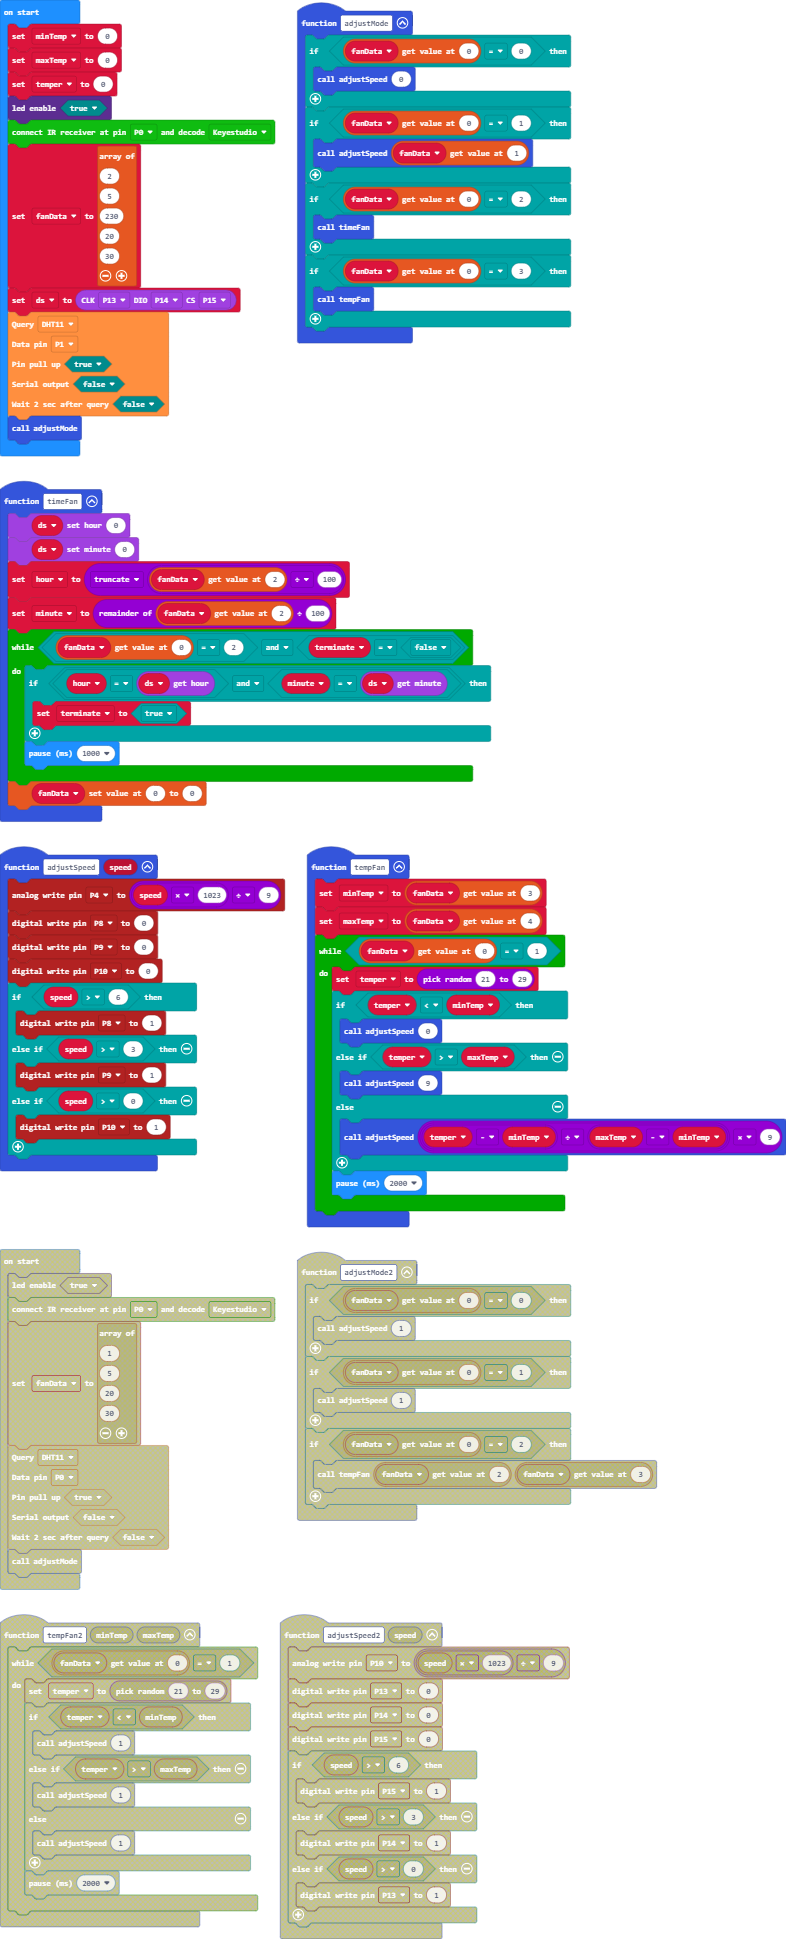
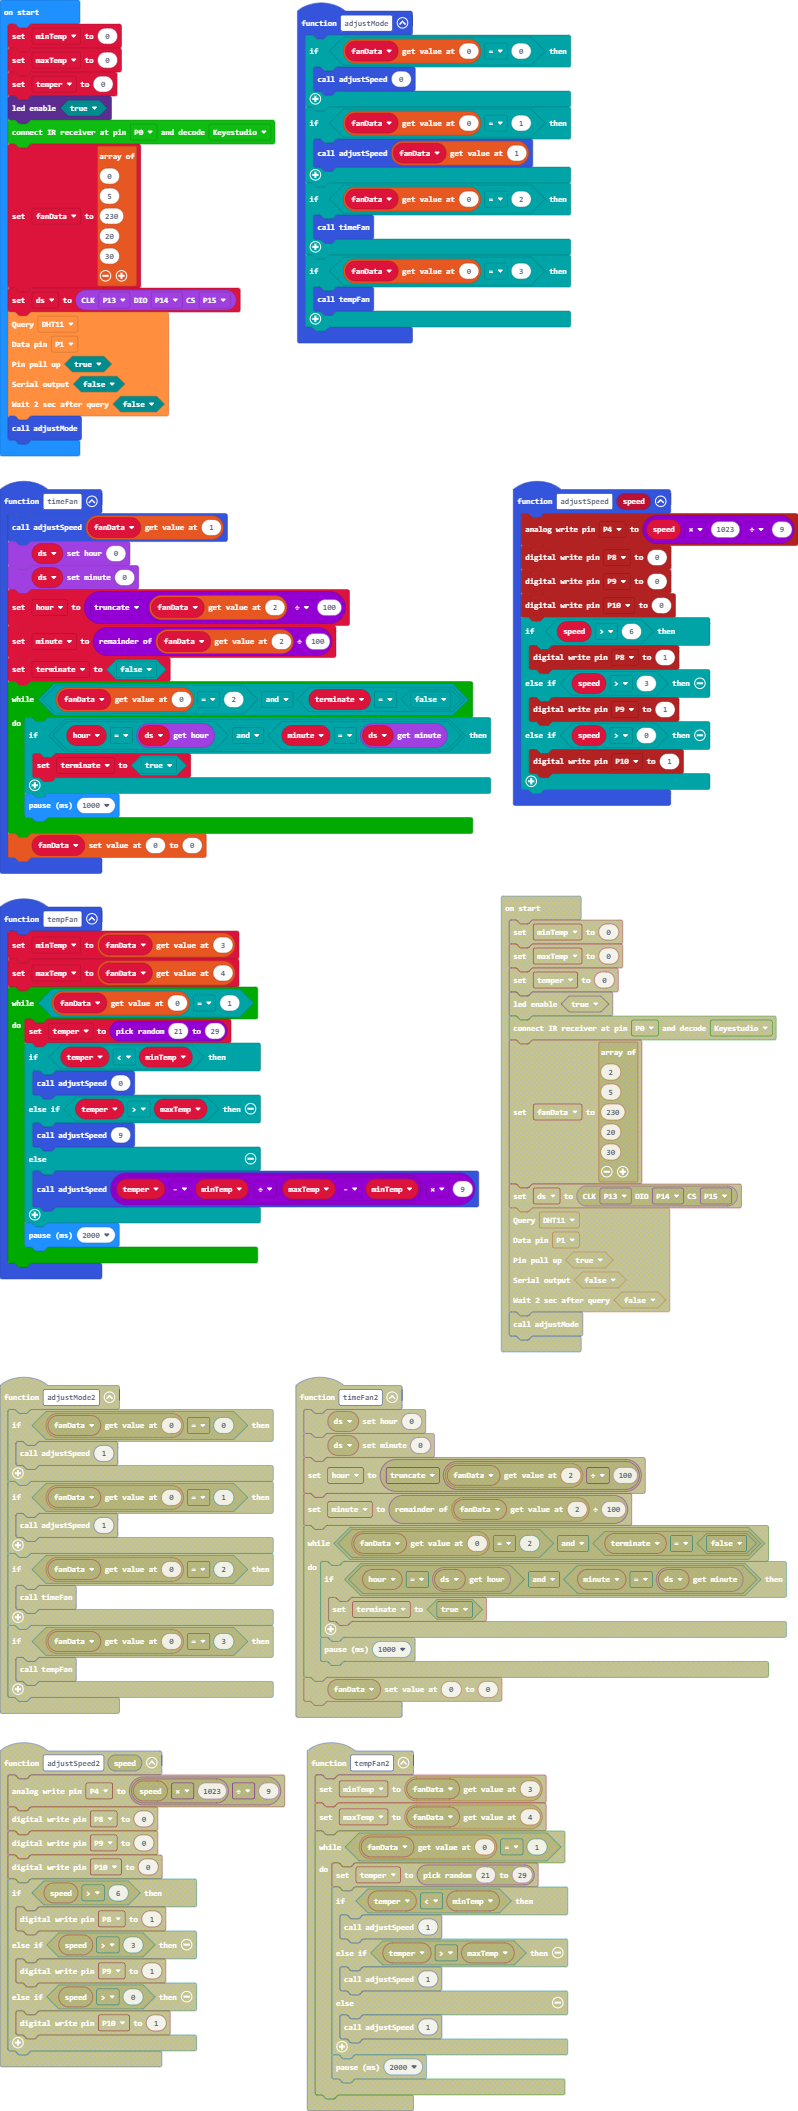
Update pxt.json, main.blocks, main.ts, main.py

diff --git a/main.ts b/main.ts
@@ -1,46 +1,23 @@
-function tempFan () {
-    minTemp = fanData[3]
-    maxTemp = fanData[4]
-    while (fanData[0] == 1) {
-        temper = randint(21, 29)
-        if (temper < minTemp) {
-            adjustSpeed(0)
-        } else if (temper > maxTemp) {
-            adjustSpeed(9)
-        } else {
-            adjustSpeed((temper - minTemp) / (maxTemp - minTemp) * 9)
-        }
-        basic.pause(2000)
-    }
-}
-function adjustMode () {
+function adjustMode() {
     if (fanData[0] == 0) {
         adjustSpeed(0)
     }
+    
     if (fanData[0] == 1) {
         adjustSpeed(fanData[1])
     }
+    
     if (fanData[0] == 2) {
         timeFan()
     }
+    
     if (fanData[0] == 3) {
         tempFan()
     }
+    
 }
-function timeFan () {
-    ds.setHour(0)
-    ds.setMinute(0)
-    hour = Math.trunc(fanData[2] / 100)
-    minute = fanData[2] % 100
-    while (fanData[0] == 2 && terminate == false) {
-        if (hour == ds.getHour() && minute == ds.getMinute()) {
-            terminate = true
-        }
-        basic.pause(1000)
-    }
-    fanData[0] = 0
-}
-function adjustSpeed (speed: number) {
+
+function adjustSpeed(speed: number) {
     pins.analogWritePin(AnalogPin.P4, speed * 1023 / 9)
     pins.digitalWritePin(DigitalPin.P8, 0)
     pins.digitalWritePin(DigitalPin.P9, 0)
@@ -52,12 +29,50 @@ function adjustSpeed (speed: number) {
     } else if (speed > 0) {
         pins.digitalWritePin(DigitalPin.P10, 1)
     }
+    
 }
+
+function timeFan() {
+    
+    adjustSpeed(fanData[1])
+    ds.setHour(0)
+    ds.setMinute(0)
+    hour = Math.trunc(fanData[2] / 100)
+    minute = fanData[2] % 100
+    terminate = false
+    while (fanData[0] == 2 && terminate == false) {
+        if (hour == ds.getHour() && minute == ds.getMinute()) {
+            terminate = true
+        }
+        
+        basic.pause(1000)
+    }
+    fanData[0] = 0
+}
+
+function tempFan() {
+    
+    minTemp = fanData[3]
+    maxTemp = fanData[4]
+    while (fanData[0] == 1) {
+        temper = randint(21, 29)
+        if (temper < minTemp) {
+            adjustSpeed(0)
+        } else if (temper > maxTemp) {
+            adjustSpeed(9)
+        } else {
+            adjustSpeed((temper - minTemp) / (maxTemp - minTemp) * 9)
+        }
+        
+        basic.pause(2000)
+    }
+}
+
 let terminate = false
 let minute = 0
 let hour = 0
-let ds: DS1302.DS1302RTC = null
-let fanData: number[] = []
+let ds : DS1302.DS1302RTC = null
+let fanData : number[] = []
 let temper = 0
 let maxTemp = 0
 let minTemp = 0
@@ -66,19 +81,7 @@ maxTemp = 0
 temper = 0
 led.enable(true)
 makerbit.connectIrReceiver(DigitalPin.P0, IrProtocol.Keyestudio)
-fanData = [
-2,
-5,
-230,
-20,
-30
-]
+fanData = [0, 5, 230, 20, 30]
 ds = DS1302.create(DigitalPin.P13, DigitalPin.P14, DigitalPin.P15)
-dht11_dht22.queryData(
-DHTtype.DHT11,
-DigitalPin.P1,
-true,
-false,
-false
-)
+dht11_dht22.queryData(DHTtype.DHT11, DigitalPin.P1, true, false, false)
 adjustMode()

diff --git a/main.py b/main.py
@@ -1,3 +1,39 @@
+def adjustMode():
+    if fanData[0] == 0:
+        adjustSpeed(0)
+    if fanData[0] == 1:
+        adjustSpeed(fanData[1])
+    if fanData[0] == 2:
+        timeFan()
+    if fanData[0] == 3:
+        tempFan()
+
+def adjustSpeed(speed: number):
+    pins.analog_write_pin(AnalogPin.P4, speed * 1023 / 9)
+    pins.digital_write_pin(DigitalPin.P8, 0)
+    pins.digital_write_pin(DigitalPin.P9, 0)
+    pins.digital_write_pin(DigitalPin.P10, 0)
+    if speed > 6:
+        pins.digital_write_pin(DigitalPin.P8, 1)
+    elif speed > 3:
+        pins.digital_write_pin(DigitalPin.P9, 1)
+    elif speed > 0:
+        pins.digital_write_pin(DigitalPin.P10, 1)
+
+def timeFan():
+    global hour, minute, terminate
+    adjustSpeed(fanData[1])
+    ds.set_hour(0)
+    ds.set_minute(0)
+    hour = int(fanData[2] / 100)
+    minute = fanData[2] % 100
+    terminate = False
+    while fanData[0] == 2 and terminate == False:
+        if hour == ds.get_hour() and minute == ds.get_minute():
+            terminate = True
+        basic.pause(1000)
+    fanData[0] = 0
+
 def tempFan():
     global minTemp, maxTemp, temper
     minTemp = fanData[3]
@@ -11,38 +47,8 @@ def tempFan():
         else:
             adjustSpeed((temper - minTemp) / (maxTemp - minTemp) * 9)
         basic.pause(2000)
-def adjustMode():
-    if fanData[0] == 0:
-        adjustSpeed(0)
-    if fanData[0] == 1:
-        adjustSpeed(fanData[1])
-    if fanData[0] == 2:
-        timeFan()
-    if fanData[0] == 3:
-        tempFan()
-def timeFan():
-    global hour, minute
-    ds.set_hour(0)
-    ds.set_minute(0)
-    hour = int(fanData[2] / 100)
-    minute = fanData[2] % 100
-    terminate = False
-    while fanData[0] == 2 and terminate == False:
-        if(hour == ds.get_hour() and minute == ds.get_minute()):
-            terminate = True
-        basic.pause(1000)
-    fanData[0] = 0
-def adjustSpeed(speed: number):
-    pins.analog_write_pin(AnalogPin.P4, speed * 1023 / 9)
-    pins.digital_write_pin(DigitalPin.P8, 0)
-    pins.digital_write_pin(DigitalPin.P9, 0)
-    pins.digital_write_pin(DigitalPin.P10, 0)
-    if speed > 6:
-        pins.digital_write_pin(DigitalPin.P8, 1)
-    elif speed > 3:
-        pins.digital_write_pin(DigitalPin.P9, 1)
-    elif speed > 0:
-        pins.digital_write_pin(DigitalPin.P10, 1)
+
+terminate = False
 minute = 0
 hour = 0
 ds: DS1302.DS1302RTC = None
@@ -55,7 +61,7 @@ maxTemp = 0
 temper = 0
 led.enable(True)
 makerbit.connect_ir_receiver(DigitalPin.P0, IrProtocol.KEYESTUDIO)
-fanData = [2, 5, 230, 20, 30]
+fanData = [0, 5, 230, 20, 30]
 ds = DS1302.create(DigitalPin.P13, DigitalPin.P14, DigitalPin.P15)
 dht11_dht22.query_data(DHTtype.DHT11, DigitalPin.P1, True, False, False)
 adjustMode()
